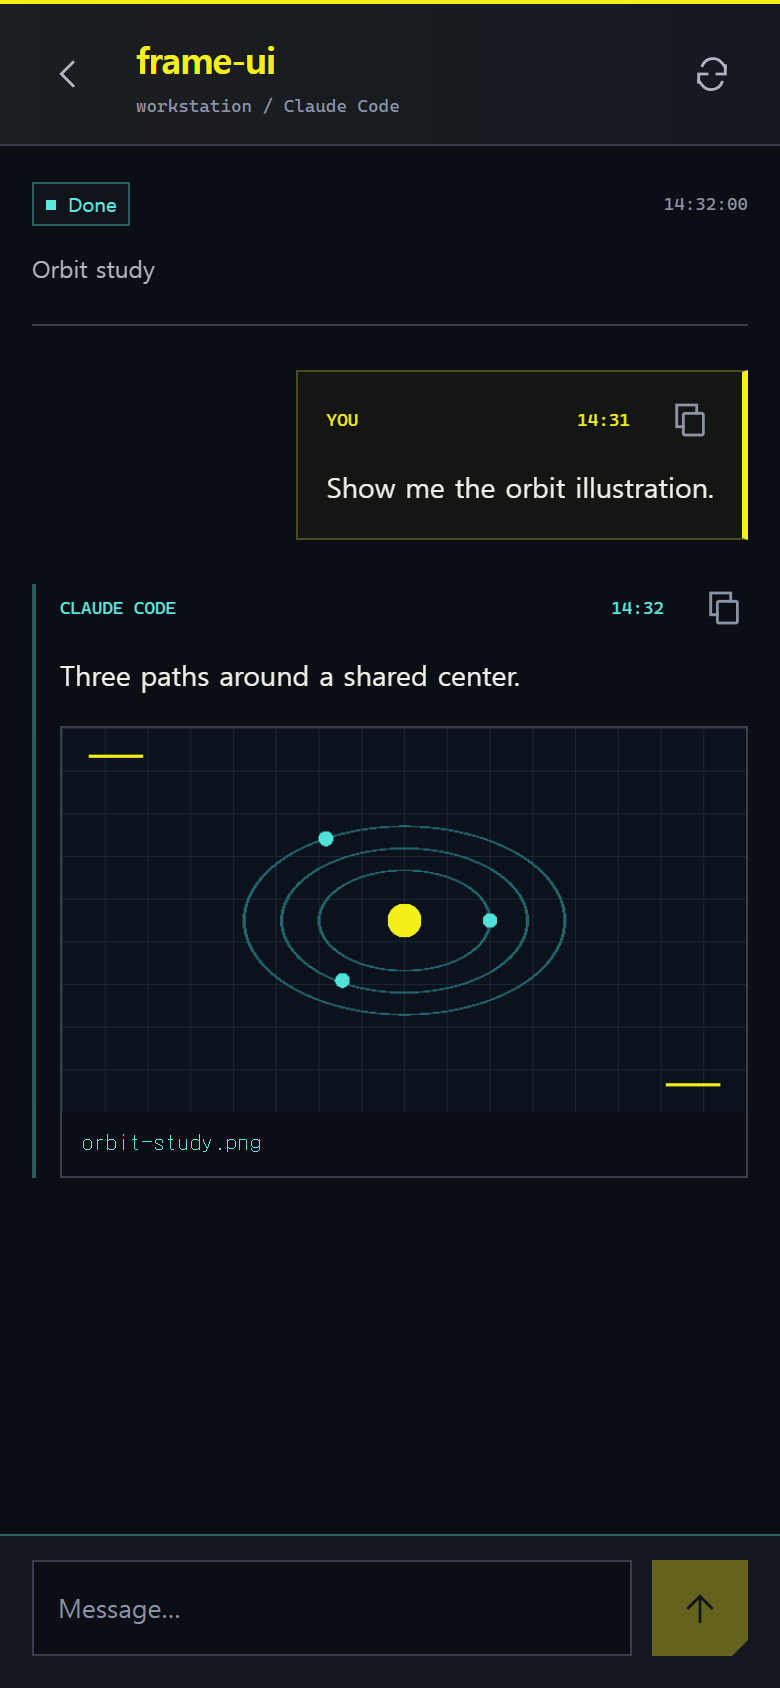
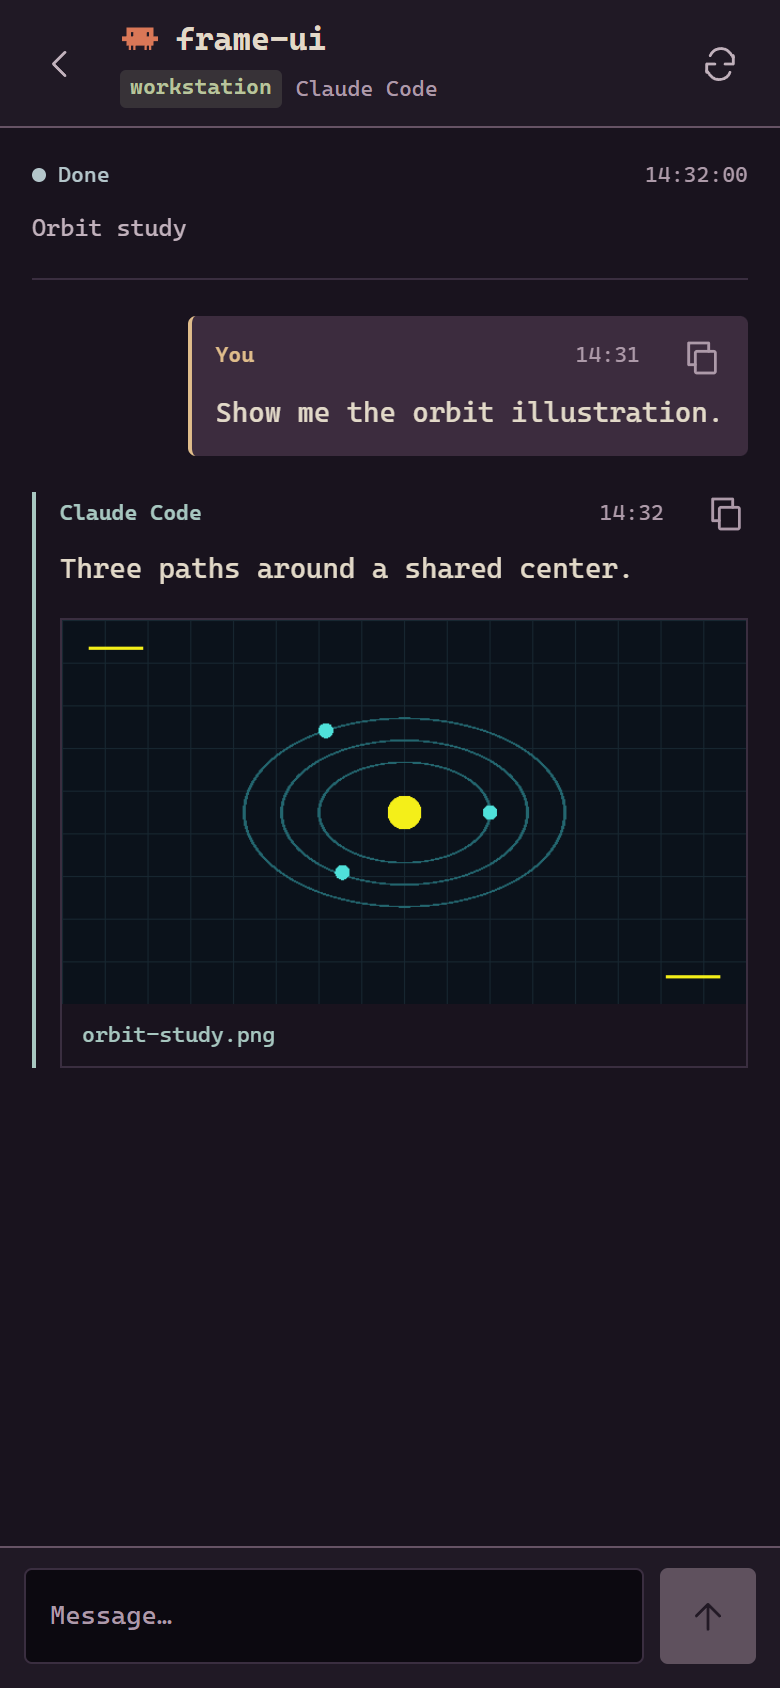
Rename the app to Wired and refresh the screenshots
The home screen, header, notifications, and clipboard label now say
Wired. The package ID stays the same, so existing installs keep their
connection settings.

The README screenshots are regenerated with the Quad skin and avatar.
The timer check now accepts 2:05 or 2:06, because the clock can tick
between setting up the fixture and reading the label.

Claude-Session: https://claude.ai/code/session_01BPfxPtNPfH5ZxpUXthzmSP

diff --git a/app/src/main/assets/index.html b/app/src/main/assets/index.html
@@ -7,13 +7,13 @@
       http-equiv="Content-Security-Policy"
       content="default-src 'none'; script-src 'self'; style-src 'self' 'unsafe-inline'; img-src 'self' data: https://pocket-media.invalid; media-src https://pocket-media.invalid; font-src 'self'; base-uri 'none'; form-action 'none'"
     />
-    <title>Herdr Pocket</title>
+    <title>Wired</title>
     <link rel="stylesheet" href="style.css" />
   </head>
   <body>
     <div id="app">
       <header id="connection" class="connection">
-        <strong class="brand">POCKET</strong><span class="dot"></span
+        <strong class="brand">WIRED</strong><span class="dot"></span
         ><span id="connection-text">연결 중</span><span id="updated"></span>
         <button id="refresh" class="icon-button" aria-label="새로고침"></button>
       </header>

diff --git a/app/src/main/java/dev/rapina/herdrpocket/PushManager.java b/app/src/main/java/dev/rapina/herdrpocket/PushManager.java
@@ -164,7 +164,7 @@ final class PushManager {
             if (foreground && key.equals(visibleKey)) return;
             boolean ko = !prefs(c).getString("language", "ko").equals("en");
             channels(c, ko);
-            String title = new JSONObject(prefs(c).getString("routes", "{}")).optString(key, "Herdr Pocket");
+            String title = new JSONObject(prefs(c).getString("routes", "{}")).optString(key, "Wired");
             String text = kind.equals("input") ? (ko ? "입력이 필요해요" : "Input needed") : kind.equals("done") ? (ko ? "응답이 도착했어요" : "Response ready") : (ko ? "실행 오류" : "Execution error");
             String preview = data.get("preview");
             if (kind.equals("done") && preview != null && !preview.trim().isEmpty()) text = preview.trim();
@@ -182,7 +182,7 @@ final class PushManager {
             for (android.service.notification.StatusBarNotification n : manager.getActiveNotifications()) if (n.getId() != 0 && n.getId() != key.hashCode()) count++;
             manager.notify(key.hashCode(), notification);
             if (count > 1) manager.notify(0, new Notification.Builder(c, "pocket_done").setSmallIcon(R.drawable.ic_notification)
-                .setContentTitle("Herdr Pocket").setGroup(GROUP).setGroupSummary(true).setGroupAlertBehavior(Notification.GROUP_ALERT_CHILDREN).setAutoCancel(true).build());
+                .setContentTitle("Wired").setGroup(GROUP).setGroupSummary(true).setGroupAlertBehavior(Notification.GROUP_ALERT_CHILDREN).setAutoCancel(true).build());
         } catch (Exception ignored) { }
     }
 }

diff --git a/app/src/main/java/dev/rapina/herdrpocket/MainActivity.java b/app/src/main/java/dev/rapina/herdrpocket/MainActivity.java
@@ -192,7 +192,7 @@ public class MainActivity extends Activity {
                             String text = data.getString("text");
                             ClipboardManager clipboard = (ClipboardManager) getSystemService(CLIPBOARD_SERVICE);
                             if (clipboard == null) throw new Exception("copy_failed");
-                            clipboard.setPrimaryClip(ClipData.newPlainText("Herdr Pocket", text));
+                            clipboard.setPrimaryClip(ClipData.newPlainText("Wired", text));
                             result = new JSONObject().put("copied", true);
                             break;
                         case "settings": result = connection.settings().put("push", PushManager.status(MainActivity.this)); break;

diff --git a/docs/README.ko.md b/docs/README.ko.md
@@ -1,10 +1,10 @@
-# Herdr Pocket
+# Wired
 
-여러 기기의 Herdr 에이전트를 모바일에서 통합 관리하는 Android 앱입니다.
+여러 기기의 Herdr 에이전트를 모바일에서 통합 관리하는 Android 앱입니다. 이전 이름은 Herdr Pocket입니다.
 
 [English](../README.md)
 
-- 여러 기기의 에이전트 상태와 대화 확인
+- 여러 기기의 에이전트 상태와 대화 확인, 상태에 반응하는 컴패니언 아바타
 - 메시지 전송과 지원되는 승인 요청에 응답
 - 이미지·영상·오디오·Mermaid 미리보기
 - 본인 Firebase 프로젝트로 설정하는 알림(선택)

diff --git a/README.md b/README.md
@@ -1,10 +1,10 @@
-# Herdr Pocket
+# Wired
 
-Manage your Herdr agents across machines from Android.
+Manage your Herdr agents across machines from Android. Formerly Herdr Pocket.
 
 [한국어](docs/README.ko.md)
 
-- Agent status and conversations across machines
+- Agent status and conversations across machines, with a companion avatar that reacts to them
 - Messages and supported approval prompts
 - Image, video, audio, and Mermaid previews
 - Optional notifications with your own Firebase project
